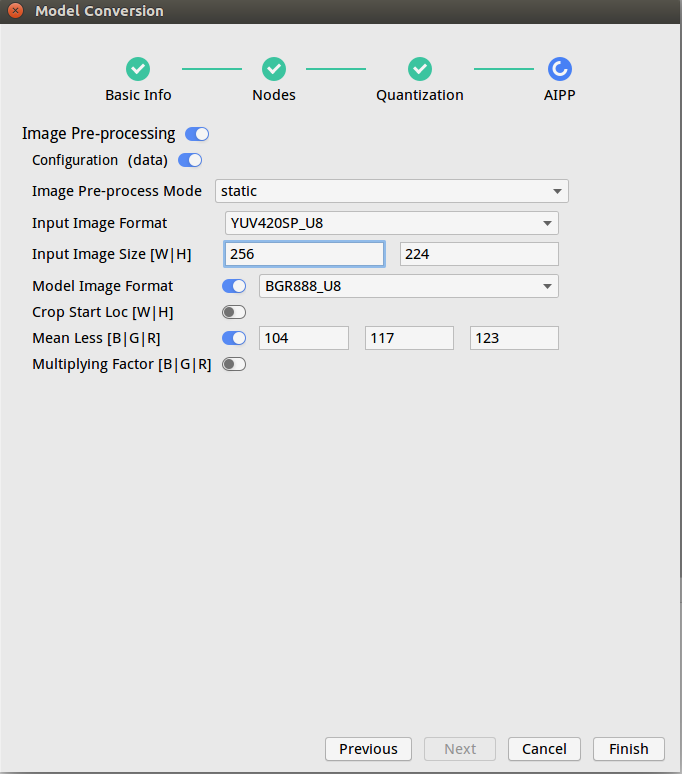
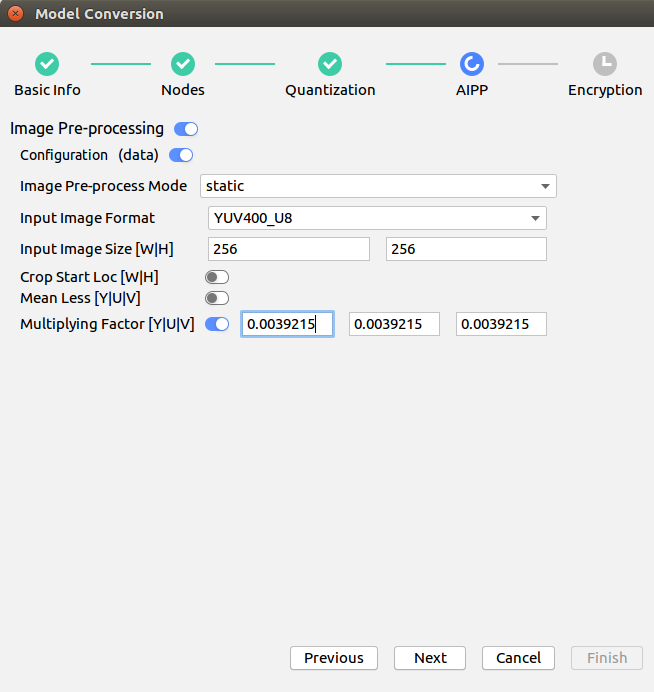
add readme

Changed region(s): [[0.0, 0.0, 1.0, 1.0], [0.6728, 0.4249, 0.8257, 0.4855]]

diff --git a/README.md b/README.md
@@ -1,6 +1,6 @@
-# 分类网络应用（C++）<a name="ZH-CN_TOPIC_0208837235"></a>
+# 图像超分辨率网络应用（C++）<a name="ZH-CN_TOPIC_0208837235"></a>
 
-本Application支持运行在Atlas 200 DK或者AI加速云服务器上，实现了对常见的分类网络的推理功能并输出前n个推理结果。
+本Application支持运行在Atlas 200 DK或者AI加速云服务器上，实现了对SRCNN、FSRCNN和ESPCN三种图像超分辨率网络的推理功能。
 
 ## 前提条件<a name="zh-cn_topic_0203223265_section137245294533"></a>
 
@@ -15,161 +15,13 @@
 
 1.  <a name="zh-cn_topic_0203223265_li953280133816"></a>获取源码包。
 
-    将[https://gitee.com/Atlas200DK/sample-classification/tree/1.3x.0.0/](https://gitee.com/Atlas200DK/sample-classification/tree/1.3x.0.0/)仓中的代码以Mind Studio安装用户下载至Mind Studio所在Ubuntu服务器的任意目录，这两个文件必须存放到同一个目录下。例如代码存放路径为：_$HOME/AscendProjects/sample-classification_。
+    将[https://github.com/GreyZzzzzzXh/sample-superresolution/tree/1.3x.0.0/](https://github.com/GreyZzzzzzXh/sample-superresolution/tree/1.3x.0.0/)仓中的代码以Mind Studio安装用户下载至Mind Studio所在Ubuntu服务器的任意目录。例如代码存放路径为：_$HOME/AscendProjects/sample-superresolution_。
 
 2.  <a name="zh-cn_topic_0203223265_li29641938112018"></a>获取此应用中所需要的原始网络模型。
 
-    参考[表1](#zh-cn_topic_0203223265_table1119094515272)获取此应用中所用到的原始网络模型及其对应的权重文件，并将其存放到Mind Studio所在Ubuntu服务器的任意目录，这两个文件必须存放到同一个目录下。例如：_$HOME/models/classification_。
+    此应用中使用的三个原始网络模型权重分别通过[SRCNN](http://mmlab.ie.cuhk.edu.hk/projects/SRCNN.html)、[FSRCNN](http://mmlab.ie.cuhk.edu.hk/projects/FSRCNN.html)以及[ESPCN](https://github.com/wangxuewen99/Super-Resolution/tree/master/ESPCN)开源代码训练得到。另外，在网络模型文件中，需要对padding参数做一些修改以保证卷积后特征图的尺寸不变。
 
-    **表 1**  通用分类网络应用使用模型
-
-    <a name="zh-cn_topic_0203223265_table1119094515272"></a>
-    <table><thead align="left"><tr id="zh-cn_topic_0203223265_row677354502719"><th class="cellrowborder" valign="top" width="12.85%" id="mcps1.2.4.1.1"><p id="zh-cn_topic_0203223265_p167731845122717"><a name="zh-cn_topic_0203223265_p167731845122717"></a><a name="zh-cn_topic_0203223265_p167731845122717"></a>模型名称</p>
-    </th>
-    <th class="cellrowborder" valign="top" width="12.57%" id="mcps1.2.4.1.2"><p id="zh-cn_topic_0203223265_p277317459276"><a name="zh-cn_topic_0203223265_p277317459276"></a><a name="zh-cn_topic_0203223265_p277317459276"></a>模型说明</p>
-    </th>
-    <th class="cellrowborder" valign="top" width="74.58%" id="mcps1.2.4.1.3"><p id="zh-cn_topic_0203223265_p9773114512270"><a name="zh-cn_topic_0203223265_p9773114512270"></a><a name="zh-cn_topic_0203223265_p9773114512270"></a>模型下载路径</p>
-    </th>
-    </tr>
-    </thead>
-    <tbody><tr id="zh-cn_topic_0203223265_row3122314144215"><td class="cellrowborder" valign="top" width="12.85%" headers="mcps1.2.4.1.1 "><p id="zh-cn_topic_0203223265_p14407251134314"><a name="zh-cn_topic_0203223265_p14407251134314"></a><a name="zh-cn_topic_0203223265_p14407251134314"></a>alexnet</p>
-    </td>
-    <td class="cellrowborder" valign="top" width="12.57%" headers="mcps1.2.4.1.2 "><p id="zh-cn_topic_0203223265_p116141194720"><a name="zh-cn_topic_0203223265_p116141194720"></a><a name="zh-cn_topic_0203223265_p116141194720"></a>图片分类推理模型。</p>
-    <p id="zh-cn_topic_0203223265_p86191184712"><a name="zh-cn_topic_0203223265_p86191184712"></a><a name="zh-cn_topic_0203223265_p86191184712"></a>是基于Caffe的AlexNet模型。</p>
-    </td>
-    <td class="cellrowborder" valign="top" width="74.58%" headers="mcps1.2.4.1.3 "><p id="zh-cn_topic_0203223265_p67311330479"><a name="zh-cn_topic_0203223265_p67311330479"></a><a name="zh-cn_topic_0203223265_p67311330479"></a>请参考<a href="https://gitee.com/HuaweiAscend/models/tree/master/computer_vision/classification/alexnet" target="_blank" rel="noopener noreferrer">https://gitee.com/HuaweiAscend/models/tree/master/computer_vision/classification/alexnet</a>目录中README.md下载原始网络模型文件及其对应的权重文件。</p>
-    </td>
-    </tr>
-    <tr id="zh-cn_topic_0203223265_row2399521134819"><td class="cellrowborder" valign="top" width="12.85%" headers="mcps1.2.4.1.1 "><p id="zh-cn_topic_0203223265_p3400192113488"><a name="zh-cn_topic_0203223265_p3400192113488"></a><a name="zh-cn_topic_0203223265_p3400192113488"></a>caffenet</p>
-    </td>
-    <td class="cellrowborder" valign="top" width="12.57%" headers="mcps1.2.4.1.2 "><p id="zh-cn_topic_0203223265_p5645133234810"><a name="zh-cn_topic_0203223265_p5645133234810"></a><a name="zh-cn_topic_0203223265_p5645133234810"></a>图片分类推理模型。</p>
-    <p id="zh-cn_topic_0203223265_p14645153244816"><a name="zh-cn_topic_0203223265_p14645153244816"></a><a name="zh-cn_topic_0203223265_p14645153244816"></a>是基于Caffe的CaffeNet模型。</p>
-    </td>
-    <td class="cellrowborder" valign="top" width="74.58%" headers="mcps1.2.4.1.3 "><p id="zh-cn_topic_0203223265_p1537844912482"><a name="zh-cn_topic_0203223265_p1537844912482"></a><a name="zh-cn_topic_0203223265_p1537844912482"></a>请参考<a href="https://gitee.com/HuaweiAscend/models/tree/master/computer_vision/classification/caffenet" target="_blank" rel="noopener noreferrer">https://gitee.com/HuaweiAscend/models/tree/master/computer_vision/classification/caffenet</a>目录中README.md下载原始网络模型文件及其对应的权重文件。</p>
-    </td>
-    </tr>
-    <tr id="zh-cn_topic_0203223265_row3773114518271"><td class="cellrowborder" valign="top" width="12.85%" headers="mcps1.2.4.1.1 "><p id="zh-cn_topic_0203223265_p17738455277"><a name="zh-cn_topic_0203223265_p17738455277"></a><a name="zh-cn_topic_0203223265_p17738455277"></a>densenet</p>
-    </td>
-    <td class="cellrowborder" valign="top" width="12.57%" headers="mcps1.2.4.1.2 "><p id="zh-cn_topic_0203223265_p16773124511270"><a name="zh-cn_topic_0203223265_p16773124511270"></a><a name="zh-cn_topic_0203223265_p16773124511270"></a>图片分类推理模型。</p>
-    <p id="zh-cn_topic_0203223265_p2773745162718"><a name="zh-cn_topic_0203223265_p2773745162718"></a><a name="zh-cn_topic_0203223265_p2773745162718"></a>是基于Caffe的DenseNet121模型。</p>
-    </td>
-    <td class="cellrowborder" valign="top" width="74.58%" headers="mcps1.2.4.1.3 "><p id="zh-cn_topic_0203223265_p187731945132715"><a name="zh-cn_topic_0203223265_p187731945132715"></a><a name="zh-cn_topic_0203223265_p187731945132715"></a>请参考<a href="https://gitee.com/HuaweiAscend/models/tree/master/computer_vision/classification/densenet" target="_blank" rel="noopener noreferrer">https://gitee.com/HuaweiAscend/models/tree/master/computer_vision/classification/densenet</a>目录中README.md下载原始网络模型文件及其对应的权重文件。</p>
-    </td>
-    </tr>
-    <tr id="zh-cn_topic_0203223265_row137731845122710"><td class="cellrowborder" valign="top" width="12.85%" headers="mcps1.2.4.1.1 "><p id="zh-cn_topic_0203223265_p477316457275"><a name="zh-cn_topic_0203223265_p477316457275"></a><a name="zh-cn_topic_0203223265_p477316457275"></a>googlenet</p>
-    </td>
-    <td class="cellrowborder" valign="top" width="12.57%" headers="mcps1.2.4.1.2 "><p id="zh-cn_topic_0203223265_p197731456270"><a name="zh-cn_topic_0203223265_p197731456270"></a><a name="zh-cn_topic_0203223265_p197731456270"></a>图片分类推理模型。</p>
-    <p id="zh-cn_topic_0203223265_p1877394515274"><a name="zh-cn_topic_0203223265_p1877394515274"></a><a name="zh-cn_topic_0203223265_p1877394515274"></a>是基于Caffe的GoogLeNet模型。</p>
-    </td>
-    <td class="cellrowborder" valign="top" width="74.58%" headers="mcps1.2.4.1.3 "><p id="zh-cn_topic_0203223265_p197738453275"><a name="zh-cn_topic_0203223265_p197738453275"></a><a name="zh-cn_topic_0203223265_p197738453275"></a>请参考<a href="https://gitee.com/HuaweiAscend/models/tree/master/computer_vision/classification/googlenet" target="_blank" rel="noopener noreferrer">https://gitee.com/HuaweiAscend/models/tree/master/computer_vision/classification/googlenet</a>目录中README.md下载原始网络模型文件及其对应的权重文件。</p>
-    </td>
-    </tr>
-    <tr id="zh-cn_topic_0203223265_row977374512716"><td class="cellrowborder" valign="top" width="12.85%" headers="mcps1.2.4.1.1 "><p id="zh-cn_topic_0203223265_p1977324512272"><a name="zh-cn_topic_0203223265_p1977324512272"></a><a name="zh-cn_topic_0203223265_p1977324512272"></a><span>inception_v2</span></p>
-    </td>
-    <td class="cellrowborder" valign="top" width="12.57%" headers="mcps1.2.4.1.2 "><p id="zh-cn_topic_0203223265_p14773445122712"><a name="zh-cn_topic_0203223265_p14773445122712"></a><a name="zh-cn_topic_0203223265_p14773445122712"></a>图片分类推理模型。</p>
-    <p id="zh-cn_topic_0203223265_p877311459270"><a name="zh-cn_topic_0203223265_p877311459270"></a><a name="zh-cn_topic_0203223265_p877311459270"></a>是基于Caffe的Inception V2模型。</p>
-    </td>
-    <td class="cellrowborder" valign="top" width="74.58%" headers="mcps1.2.4.1.3 "><p id="zh-cn_topic_0203223265_p16773145162719"><a name="zh-cn_topic_0203223265_p16773145162719"></a><a name="zh-cn_topic_0203223265_p16773145162719"></a>请参考<a href="https://gitee.com/HuaweiAscend/models/tree/master/computer_vision/classification/inception_v2" target="_blank" rel="noopener noreferrer">https://gitee.com/HuaweiAscend/models/tree/master/computer_vision/classification/inception_v2</a>目录中README.md下载原始网络模型文件及其对应的权重文件。</p>
-    </td>
-    </tr>
-    <tr id="zh-cn_topic_0203223265_row429165985115"><td class="cellrowborder" valign="top" width="12.85%" headers="mcps1.2.4.1.1 "><p id="zh-cn_topic_0203223265_p1050712711523"><a name="zh-cn_topic_0203223265_p1050712711523"></a><a name="zh-cn_topic_0203223265_p1050712711523"></a><span>inception_v3</span></p>
-    </td>
-    <td class="cellrowborder" valign="top" width="12.57%" headers="mcps1.2.4.1.2 "><p id="zh-cn_topic_0203223265_p18641141115218"><a name="zh-cn_topic_0203223265_p18641141115218"></a><a name="zh-cn_topic_0203223265_p18641141115218"></a>图片分类推理模型。</p>
-    <p id="zh-cn_topic_0203223265_p06411511105213"><a name="zh-cn_topic_0203223265_p06411511105213"></a><a name="zh-cn_topic_0203223265_p06411511105213"></a>是基于Caffe的Inception V3模型。</p>
-    </td>
-    <td class="cellrowborder" valign="top" width="74.58%" headers="mcps1.2.4.1.3 "><p id="zh-cn_topic_0203223265_p1241971612520"><a name="zh-cn_topic_0203223265_p1241971612520"></a><a name="zh-cn_topic_0203223265_p1241971612520"></a>请参考<a href="https://gitee.com/HuaweiAscend/models/tree/master/computer_vision/classification/inception_v3" target="_blank" rel="noopener noreferrer">https://gitee.com/HuaweiAscend/models/tree/master/computer_vision/classification/inception_v3</a>目录中README.md下载原始网络模型文件及其对应的权重文件。</p>
-    </td>
-    </tr>
-    <tr id="zh-cn_topic_0203223265_row6482142185210"><td class="cellrowborder" valign="top" width="12.85%" headers="mcps1.2.4.1.1 "><p id="zh-cn_topic_0203223265_p12508168115214"><a name="zh-cn_topic_0203223265_p12508168115214"></a><a name="zh-cn_topic_0203223265_p12508168115214"></a><span>inception_v4</span></p>
-    </td>
-    <td class="cellrowborder" valign="top" width="12.57%" headers="mcps1.2.4.1.2 "><p id="zh-cn_topic_0203223265_p8785612105217"><a name="zh-cn_topic_0203223265_p8785612105217"></a><a name="zh-cn_topic_0203223265_p8785612105217"></a>图片分类推理模型。</p>
-    <p id="zh-cn_topic_0203223265_p47851512105212"><a name="zh-cn_topic_0203223265_p47851512105212"></a><a name="zh-cn_topic_0203223265_p47851512105212"></a>是基于Caffe的Inception V4模型。</p>
-    </td>
-    <td class="cellrowborder" valign="top" width="74.58%" headers="mcps1.2.4.1.3 "><p id="zh-cn_topic_0203223265_p1028761705212"><a name="zh-cn_topic_0203223265_p1028761705212"></a><a name="zh-cn_topic_0203223265_p1028761705212"></a>请参考<a href="https://gitee.com/HuaweiAscend/models/tree/master/computer_vision/classification/inception_v4" target="_blank" rel="noopener noreferrer">https://gitee.com/HuaweiAscend/models/tree/master/computer_vision/classification/inception_v4</a>目录中README.md下载原始网络模型文件及其对应的权重文件。</p>
-    </td>
-    </tr>
-    <tr id="zh-cn_topic_0203223265_row77732045152717"><td class="cellrowborder" valign="top" width="12.85%" headers="mcps1.2.4.1.1 "><p id="zh-cn_topic_0203223265_p0773114572715"><a name="zh-cn_topic_0203223265_p0773114572715"></a><a name="zh-cn_topic_0203223265_p0773114572715"></a><span>mobilenet_v1</span></p>
-    </td>
-    <td class="cellrowborder" valign="top" width="12.57%" headers="mcps1.2.4.1.2 "><p id="zh-cn_topic_0203223265_p11774645162715"><a name="zh-cn_topic_0203223265_p11774645162715"></a><a name="zh-cn_topic_0203223265_p11774645162715"></a>图片分类推理模型。</p>
-    <p id="zh-cn_topic_0203223265_p47741455273"><a name="zh-cn_topic_0203223265_p47741455273"></a><a name="zh-cn_topic_0203223265_p47741455273"></a>是基于Caffe的MobileNet V1模型。</p>
-    </td>
-    <td class="cellrowborder" valign="top" width="74.58%" headers="mcps1.2.4.1.3 "><p id="zh-cn_topic_0203223265_p5586471511"><a name="zh-cn_topic_0203223265_p5586471511"></a><a name="zh-cn_topic_0203223265_p5586471511"></a>请参考<a href="https://gitee.com/HuaweiAscend/models/tree/master/computer_vision/classification/mobilenet_v1" target="_blank" rel="noopener noreferrer">https://gitee.com/HuaweiAscend/models/tree/master/computer_vision/classification/mobilenet_v1</a>目录中README.md下载原始网络模型文件及其对应的权重文件。</p>
-    </td>
-    </tr>
-    <tr id="zh-cn_topic_0203223265_row12774164515277"><td class="cellrowborder" valign="top" width="12.85%" headers="mcps1.2.4.1.1 "><p id="zh-cn_topic_0203223265_p187741345112718"><a name="zh-cn_topic_0203223265_p187741345112718"></a><a name="zh-cn_topic_0203223265_p187741345112718"></a><span>mobilenet_v2</span></p>
-    </td>
-    <td class="cellrowborder" valign="top" width="12.57%" headers="mcps1.2.4.1.2 "><p id="zh-cn_topic_0203223265_p277414519274"><a name="zh-cn_topic_0203223265_p277414519274"></a><a name="zh-cn_topic_0203223265_p277414519274"></a>图片分类推理模型。</p>
-    <p id="zh-cn_topic_0203223265_p8774174502713"><a name="zh-cn_topic_0203223265_p8774174502713"></a><a name="zh-cn_topic_0203223265_p8774174502713"></a>是基于Caffe的MobileNet V2模型。</p>
-    </td>
-    <td class="cellrowborder" valign="top" width="74.58%" headers="mcps1.2.4.1.3 "><p id="zh-cn_topic_0203223265_p1677414514274"><a name="zh-cn_topic_0203223265_p1677414514274"></a><a name="zh-cn_topic_0203223265_p1677414514274"></a>请参考<a href="https://gitee.com/HuaweiAscend/models/tree/master/computer_vision/classification/mobilenet_v2" target="_blank" rel="noopener noreferrer">https://gitee.com/HuaweiAscend/models/tree/master/computer_vision/classification/mobilenet_v2</a>目录中README.md下载原始网络模型文件及其对应的权重文件。</p>
-    </td>
-    </tr>
-    <tr id="zh-cn_topic_0203223265_row1577434516271"><td class="cellrowborder" valign="top" width="12.85%" headers="mcps1.2.4.1.1 "><p id="zh-cn_topic_0203223265_p3774194512713"><a name="zh-cn_topic_0203223265_p3774194512713"></a><a name="zh-cn_topic_0203223265_p3774194512713"></a><span>resnet18</span></p>
-    </td>
-    <td class="cellrowborder" valign="top" width="12.57%" headers="mcps1.2.4.1.2 "><p id="zh-cn_topic_0203223265_p7774245122713"><a name="zh-cn_topic_0203223265_p7774245122713"></a><a name="zh-cn_topic_0203223265_p7774245122713"></a>图片分类推理模型。</p>
-    <p id="zh-cn_topic_0203223265_p577494517271"><a name="zh-cn_topic_0203223265_p577494517271"></a><a name="zh-cn_topic_0203223265_p577494517271"></a>是基于Caffe的ResNet 18模型。</p>
-    </td>
-    <td class="cellrowborder" valign="top" width="74.58%" headers="mcps1.2.4.1.3 "><p id="zh-cn_topic_0203223265_p16774144510270"><a name="zh-cn_topic_0203223265_p16774144510270"></a><a name="zh-cn_topic_0203223265_p16774144510270"></a>请参考<a href="https://gitee.com/HuaweiAscend/models/tree/master/computer_vision/classification/resnet18" target="_blank" rel="noopener noreferrer">https://gitee.com/HuaweiAscend/models/tree/master/computer_vision/classification/resnet18</a>目录中README.md下载原始网络模型文件及其对应的权重文件。</p>
-    </td>
-    </tr>
-    <tr id="zh-cn_topic_0203223265_row377414452276"><td class="cellrowborder" valign="top" width="12.85%" headers="mcps1.2.4.1.1 "><p id="zh-cn_topic_0203223265_p10774545142714"><a name="zh-cn_topic_0203223265_p10774545142714"></a><a name="zh-cn_topic_0203223265_p10774545142714"></a><span>resnet50</span></p>
-    </td>
-    <td class="cellrowborder" valign="top" width="12.57%" headers="mcps1.2.4.1.2 "><p id="zh-cn_topic_0203223265_p97741245142712"><a name="zh-cn_topic_0203223265_p97741245142712"></a><a name="zh-cn_topic_0203223265_p97741245142712"></a>图片分类推理模型。</p>
-    <p id="zh-cn_topic_0203223265_p177412456271"><a name="zh-cn_topic_0203223265_p177412456271"></a><a name="zh-cn_topic_0203223265_p177412456271"></a>是基于Caffe的ResNet 50模型。</p>
-    </td>
-    <td class="cellrowborder" valign="top" width="74.58%" headers="mcps1.2.4.1.3 "><p id="zh-cn_topic_0203223265_p57747459272"><a name="zh-cn_topic_0203223265_p57747459272"></a><a name="zh-cn_topic_0203223265_p57747459272"></a>请参考<a href="https://gitee.com/HuaweiAscend/models/tree/master/computer_vision/classification/resnet50" target="_blank" rel="noopener noreferrer">https://gitee.com/HuaweiAscend/models/tree/master/computer_vision/classification/resnet50</a>目录中README.md下载原始网络模型文件及其对应的权重文件。</p>
-    </td>
-    </tr>
-    <tr id="zh-cn_topic_0203223265_row377484514279"><td class="cellrowborder" valign="top" width="12.85%" headers="mcps1.2.4.1.1 "><p id="zh-cn_topic_0203223265_p1777454516275"><a name="zh-cn_topic_0203223265_p1777454516275"></a><a name="zh-cn_topic_0203223265_p1777454516275"></a><span>resnet101</span></p>
-    </td>
-    <td class="cellrowborder" valign="top" width="12.57%" headers="mcps1.2.4.1.2 "><p id="zh-cn_topic_0203223265_p15774124516274"><a name="zh-cn_topic_0203223265_p15774124516274"></a><a name="zh-cn_topic_0203223265_p15774124516274"></a>图片分类推理模型。</p>
-    <p id="zh-cn_topic_0203223265_p7774134552720"><a name="zh-cn_topic_0203223265_p7774134552720"></a><a name="zh-cn_topic_0203223265_p7774134552720"></a>是基于Caffe的ResNet 101模型。</p>
-    </td>
-    <td class="cellrowborder" valign="top" width="74.58%" headers="mcps1.2.4.1.3 "><p id="zh-cn_topic_0203223265_p117741545132710"><a name="zh-cn_topic_0203223265_p117741545132710"></a><a name="zh-cn_topic_0203223265_p117741545132710"></a>请参考<a href="https://gitee.com/HuaweiAscend/models/tree/master/computer_vision/classification/resnet101" target="_blank" rel="noopener noreferrer">https://gitee.com/HuaweiAscend/models/tree/master/computer_vision/classification/resnet101</a>目录中README.md下载原始网络模型文件及其对应的权重文件。</p>
-    </td>
-    </tr>
-    <tr id="zh-cn_topic_0203223265_row14774154513279"><td class="cellrowborder" valign="top" width="12.85%" headers="mcps1.2.4.1.1 "><p id="zh-cn_topic_0203223265_p1077413452272"><a name="zh-cn_topic_0203223265_p1077413452272"></a><a name="zh-cn_topic_0203223265_p1077413452272"></a><span>resnet15</span>2</p>
-    </td>
-    <td class="cellrowborder" valign="top" width="12.57%" headers="mcps1.2.4.1.2 "><p id="zh-cn_topic_0203223265_p177434517275"><a name="zh-cn_topic_0203223265_p177434517275"></a><a name="zh-cn_topic_0203223265_p177434517275"></a>图片分类推理模型。</p>
-    <p id="zh-cn_topic_0203223265_p877515459276"><a name="zh-cn_topic_0203223265_p877515459276"></a><a name="zh-cn_topic_0203223265_p877515459276"></a>是基于Caffe的ResNet 152模型。</p>
-    </td>
-    <td class="cellrowborder" valign="top" width="74.58%" headers="mcps1.2.4.1.3 "><p id="zh-cn_topic_0203223265_p777514582712"><a name="zh-cn_topic_0203223265_p777514582712"></a><a name="zh-cn_topic_0203223265_p777514582712"></a>请参考<a href="https://gitee.com/HuaweiAscend/models/tree/master/computer_vision/classification/resnet152" target="_blank" rel="noopener noreferrer">https://gitee.com/HuaweiAscend/models/tree/master/computer_vision/classification/resnet152</a>目录中README.md下载原始网络模型文件及其对应的权重文件。</p>
-    </td>
-    </tr>
-    <tr id="zh-cn_topic_0203223265_row37752450270"><td class="cellrowborder" valign="top" width="12.85%" headers="mcps1.2.4.1.1 "><p id="zh-cn_topic_0203223265_p977544513278"><a name="zh-cn_topic_0203223265_p977544513278"></a><a name="zh-cn_topic_0203223265_p977544513278"></a><span>vgg16</span></p>
-    </td>
-    <td class="cellrowborder" valign="top" width="12.57%" headers="mcps1.2.4.1.2 "><p id="zh-cn_topic_0203223265_p1177514522713"><a name="zh-cn_topic_0203223265_p1177514522713"></a><a name="zh-cn_topic_0203223265_p1177514522713"></a>图片分类推理模型。</p>
-    <p id="zh-cn_topic_0203223265_p10775194582713"><a name="zh-cn_topic_0203223265_p10775194582713"></a><a name="zh-cn_topic_0203223265_p10775194582713"></a>是基于Caffe的VGG16模型。</p>
-    </td>
-    <td class="cellrowborder" valign="top" width="74.58%" headers="mcps1.2.4.1.3 "><p id="zh-cn_topic_0203223265_p18775124582720"><a name="zh-cn_topic_0203223265_p18775124582720"></a><a name="zh-cn_topic_0203223265_p18775124582720"></a>请参考<a href="https://gitee.com/HuaweiAscend/models/tree/master/computer_vision/classification/vgg16" target="_blank" rel="noopener noreferrer">https://gitee.com/HuaweiAscend/models/tree/master/computer_vision/classification/vgg16</a>目录中README.md下载原始网络模型文件及其对应的权重文件。</p>
-    </td>
-    </tr>
-    <tr id="zh-cn_topic_0203223265_row2775194518272"><td class="cellrowborder" valign="top" width="12.85%" headers="mcps1.2.4.1.1 "><p id="zh-cn_topic_0203223265_p5775154516272"><a name="zh-cn_topic_0203223265_p5775154516272"></a><a name="zh-cn_topic_0203223265_p5775154516272"></a><span>vgg19</span></p>
-    </td>
-    <td class="cellrowborder" valign="top" width="12.57%" headers="mcps1.2.4.1.2 "><p id="zh-cn_topic_0203223265_p0775204532711"><a name="zh-cn_topic_0203223265_p0775204532711"></a><a name="zh-cn_topic_0203223265_p0775204532711"></a>图片分类推理模型。</p>
-    <p id="zh-cn_topic_0203223265_p1477554519275"><a name="zh-cn_topic_0203223265_p1477554519275"></a><a name="zh-cn_topic_0203223265_p1477554519275"></a>是基于Caffe的VGG19模型。</p>
-    </td>
-    <td class="cellrowborder" valign="top" width="74.58%" headers="mcps1.2.4.1.3 "><p id="zh-cn_topic_0203223265_p777554542713"><a name="zh-cn_topic_0203223265_p777554542713"></a><a name="zh-cn_topic_0203223265_p777554542713"></a>请参考<a href="https://gitee.com/HuaweiAscend/models/tree/master/computer_vision/classification/vgg19" target="_blank" rel="noopener noreferrer">https://gitee.com/HuaweiAscend/models/tree/master/computer_vision/classification/vgg19</a>目录中README.md下载原始网络模型文件及其对应的权重文件。</p>
-    </td>
-    </tr>
-    <tr id="zh-cn_topic_0203223265_row17513194404914"><td class="cellrowborder" valign="top" width="12.85%" headers="mcps1.2.4.1.1 "><p id="zh-cn_topic_0203223265_p7513164419495"><a name="zh-cn_topic_0203223265_p7513164419495"></a><a name="zh-cn_topic_0203223265_p7513164419495"></a>squeezenet</p>
-    </td>
-    <td class="cellrowborder" valign="top" width="12.57%" headers="mcps1.2.4.1.2 "><p id="zh-cn_topic_0203223265_p1315111145015"><a name="zh-cn_topic_0203223265_p1315111145015"></a><a name="zh-cn_topic_0203223265_p1315111145015"></a>图片分类推理模型。</p>
-    <p id="zh-cn_topic_0203223265_p1515131114501"><a name="zh-cn_topic_0203223265_p1515131114501"></a><a name="zh-cn_topic_0203223265_p1515131114501"></a>是基于Caffe的SqueezeNet模型。</p>
-    </td>
-    <td class="cellrowborder" valign="top" width="74.58%" headers="mcps1.2.4.1.3 "><p id="zh-cn_topic_0203223265_p16265437125015"><a name="zh-cn_topic_0203223265_p16265437125015"></a><a name="zh-cn_topic_0203223265_p16265437125015"></a>请参考<a href="https://gitee.com/HuaweiAscend/models/tree/master/computer_vision/classification/squeezenet" target="_blank" rel="noopener noreferrer">https://gitee.com/HuaweiAscend/models/tree/master/computer_vision/classification/squeezenet</a>目录中README.md下载原始网络模型文件及其对应的权重文件。</p>
-    </td>
-    </tr>
-    <tr id="zh-cn_topic_0203223265_row17757454270"><td class="cellrowborder" valign="top" width="12.85%" headers="mcps1.2.4.1.1 "><p id="zh-cn_topic_0203223265_p17759452279"><a name="zh-cn_topic_0203223265_p17759452279"></a><a name="zh-cn_topic_0203223265_p17759452279"></a><span>dpn98</span></p>
-    </td>
-    <td class="cellrowborder" valign="top" width="12.57%" headers="mcps1.2.4.1.2 "><p id="zh-cn_topic_0203223265_p4775545162716"><a name="zh-cn_topic_0203223265_p4775545162716"></a><a name="zh-cn_topic_0203223265_p4775545162716"></a>图片分类推理模型。</p>
-    <p id="zh-cn_topic_0203223265_p1577504516278"><a name="zh-cn_topic_0203223265_p1577504516278"></a><a name="zh-cn_topic_0203223265_p1577504516278"></a>是基于Caffe的<span>dpn98</span>模型。</p>
-    </td>
-    <td class="cellrowborder" valign="top" width="74.58%" headers="mcps1.2.4.1.3 "><p id="zh-cn_topic_0203223265_p19776154592711"><a name="zh-cn_topic_0203223265_p19776154592711"></a><a name="zh-cn_topic_0203223265_p19776154592711"></a>请参考<a href="https://gitee.com/HuaweiAscend/models/tree/master/computer_vision/classification/dpn98" target="_blank" rel="noopener noreferrer">https://gitee.com/HuaweiAscend/models/tree/master/computer_vision/classification/dpn98</a>目录中README.md下载原始网络模型文件及其对应的权重文件。</p>
-    </td>
-    </tr>
-    </tbody>
-    </table>
+    修改后可适用于推理的网络模型文件及训练后得到的权重文件，已存放至 _sample-superresolution/caffemodel_。
 
 3.  以Mind Studio安装用户登录Mind Studio所在Ubuntu服务器，确定当前使用的DDK版本号并设置环境变量DDK\_HOME，tools\_version，NPU\_DEVICE\_LIB和LD\_LIBRARY\_PATH。
     1.  <a name="zh-cn_topic_0203223265_zh-cn_topic_0203223294_li61417158198"></a>查询当前使用的DDK版本号。
@@ -228,28 +80,30 @@
         ![](figures/zh-cn_image_0205108796.png)
 
     2.  在弹出的**Convert Model**操作界面中，进行模型转换配置。
-        -   Model File选择[步骤2](#zh-cn_topic_0203223265_li29641938112018)中下载的模型文件，此时会自动匹配到权重文件并填写在Weight File中。
-        -   Model Name填写为[表1](#zh-cn_topic_0203223265_table1119094515272)中对应的**模型名称**。
+        -   Model File选择 _sample-superresolution/caffemodel_ 中提供的模型文件（SRCNN、FSRCNN或ESPCN），此时会自动匹配到权重文件并填写在Weight File中。
+        -   Model Name填写为对应的**模型名称**。
 
-            ![](figures/zh-cn_image_0208264607.png)
+            ![](figures/BasicInfo配置示例.png)
 
-        -   googlenet、inception\_v2、resent18模型转换时中，由于通用分类网络应用一次处理一张图片，所以转换时需要将Nodes配置中的**N**修改为1，AIPP配置中的**Input Image Size\[W\]\[H\]**需要分别修改为256、224，此处需要128\*16对齐，**Model Image Format**  选择BGR888\_U8。
+        -   根据低分辨率图像的高度和宽度，设置对应的 Input Node。如果选择的是SRCNN网络，此处的宽高需要设置为低分辨率图像的三倍。另外，注意其中的**N**和**C**都需要设置为1。
 
             **图 2**  Nodes配置示例<a name="zh-cn_topic_0203223265_fig95695336322"></a>  
             ![](figures/Nodes配置示例.png "Nodes配置示例")
+
+        -   AIPP配置中，选择**Input Image Format**为YUV400_U8，**Input Image Size**与**Input Node**中的宽高相同，**Multiplying Factor**设置为 0.0039215。
 
             **图 3**  AIPP配置示例<a name="zh-cn_topic_0203223265_fig14632122193310"></a>  
             ![](figures/AIPP配置示例.png "AIPP配置示例")
 
     3.  单击OK开始转换模型。
 
-        模型转换成功后，后缀为.om的离线模型存放地址为_$HOME/modelzoo/XXX__/device_。
+        模型转换成功后，后缀为.om的离线模型存放地址为 _$HOME/modelzoo/XXX/device_ 。
 
     >![](public_sys-resources/icon-note.gif) **说明：**   
     >-   Mindstudio模型转换中每一步的具体意义和参数说明可以参考[https://ascend.huawei.com/doc/mindstudio/2.1.0\(beta\)/zh/zh-cn\_topic\_0188462651.html](https://ascend.huawei.com/doc/mindstudio/2.1.0(beta)/zh/zh-cn_topic_0188462651.html)  
-    >-   XXX表示当前转换的模型名称，如googlenet.om存放地址为$HOME/modelzoo/googlenet/device。  
+    >-   XXX表示当前转换的模型名称，如FSRCNN.om存放地址为$HOME/modelzoo/FSRCNN/device。  
 
-5.  <a name="zh-cn_topic_0203223265_li470213205618"></a>将转换好的模型文件（.om文件）上传到[步骤1](#zh-cn_topic_0203223265_li953280133816)中源码所在路径下的“**sample-classification/script**”目录下。
+5.  <a name="zh-cn_topic_0203223265_li470213205618"></a>将转换好的模型文件（.om文件）上传到[步骤1](#zh-cn_topic_0203223265_li953280133816)中源码所在路径下的“**sample-superresolution/script**”目录下。
 
 ## 编译<a name="zh-cn_topic_0203223265_section18931344873"></a>
 
@@ -259,10 +113,10 @@
 
     **./MindStudio.sh**
 
-    启动成功后，打开**sample-classification**工程，如[图 打开classification工程](#zh-cn_topic_0203223265_fig11106241192810)所示。
+    启动成功后，打开**sample-superresolution**工程，如[图 打开superresolution工程](#zh-cn_topic_0203223265_fig11106241192810)所示。
 
-    **图 4**  打开classification工程<a name="zh-cn_topic_0203223265_fig11106241192810"></a>  
-    ![](figures/打开classification工程.png "打开classification工程")
+    **图 4**  打开superresolution工程<a name="zh-cn_topic_0203223265_fig11106241192810"></a>  
+    ![](figures/打开superresolution工程.png "打开superresolution工程")
 
 2.  在**src/param\_configure.conf**文件中配置相关工程信息。
 
@@ -285,13 +139,13 @@
 
     ```
     remote_host=192.168.1.2
-    model_name=googlenet.om
+    model_name=FSRCNN_256_256.om
     ```
 
     >![](public_sys-resources/icon-note.gif) **说明：**   
     >-   参数必须全部填写，否则无法通过build。  
     >-   注意参数填写时不需要使用“”符号。  
-    >-   配置文件中只能填入单个模型名称，填入的模型必须为[步骤5](#zh-cn_topic_0203223265_li470213205618)中存储的模型之一。本示例是以googlenet举例，用户可以使用本样例列举的其它模型按照文档步骤进行替换运行。  
+    >-   配置文件中只能填入单个模型名称，填入的模型必须为[步骤5](#zh-cn_topic_0203223265_li470213205618)中存储的模型之一。本示例是以FSRCNN举例，用户可以使用本样例列举的其它模型按照文档步骤进行替换运行。  
 
 3.  开始编译，打开Mind Studio工具，在工具栏中点击**Build \> Build \> Build-Configuration**。如[图 编译操作及生成文件](#zh-cn_topic_0203223265_fig1741464713019)所示，会在目录下生成build和run文件夹。
 
@@ -313,7 +167,7 @@
 
 ## 运行<a name="zh-cn_topic_0203223265_section372782554919"></a>
 
-1.  在Mind Studio工具的工具栏中找到Run按钮，单击  **Run \> Run 'sample-classification'**，如[图 程序已执行示意图](#zh-cn_topic_0203223265_fig93931954162719)所示，可执行程序已经在开发者板执行。
+1.  在Mind Studio工具的工具栏中找到Run按钮，单击  **Run \> Run 'sample-superresolution'**，如[图 程序已执行示意图](#zh-cn_topic_0203223265_fig93931954162719)所示，可执行程序已经在开发者板执行。
 
     **图 7**  程序已执行示意图<a name="zh-cn_topic_0203223265_fig93931954162719"></a>  
     ![](figures/程序已执行示意图.png "程序已执行示意图")
@@ -326,23 +180,28 @@
 
     对于Atlas 200 DK，host\_ip默认为192.168.1.2（USB连接）或者192.168.0.2（NIC连接）。
 
-3.  进入通用分类网络应用的可执行文件所在路径。
+3.  进入图像超分辨率网络应用的可执行文件所在路径。
 
-    **cd \~/HIAI\_PROJECTS/workspace\_mind\_studio/classification/out**
+    **cd \~/HIAI\_PROJECTS/workspace\_mind\_studio/sample-superresolution/out**
 
 4.  执行应用程序。
 
-    执行**run\_classification.py**脚本会将推理结果在执行终端直接打印显示。
+    执行**run\_superresolution.py**脚本会生成超分辨率图片，并保存至当前目录。
 
     命令示例如下所示：
 
-    **python3 run\_classification.py -w  _224_  -h  _224_  -i** **_./example.jpg_  -n  _10_**
+    **python3 run\_superresolution.py -t _0_ -w _768_ -h _768_ -i _\~/images/Set5/butterfly\_GT.bmp_ -c _1_**
 
-    -   -w/model\_width：模型的输入图片宽度，为16\~4096之间的整数，请参考[表1](#zh-cn_topic_0203223265_table1119094515272)在Gitee上查看所使用模型文件的Readme，获取模型要求的输入数据的宽和高。
-    -   -h/model\_height：模型的输入图片高度，为16\~4096之间的整数，请参考[表1](#zh-cn_topic_0203223265_table1119094515272)在Gitee上查看所使用模型文件的Readme，获取模型要求的输入数据的宽和高。
+    **python3 run\_superresolution.py -t _1_ -w _256_ -h _256_ -i _\~/images/Set5/butterfly\_GT.bmp_ -c _1_**
+
+    **python3 run\_superresolution.py -t _2_ -w _256_ -h _256_ -i _\~/images/Set5/butterfly\_GT.bmp_ -c _1_**
+
+    -   -t/model\_type：超分辨率网络类型，为0~2之间的整数，0、1、2分别代表SRCNN、FSRCNN与ESPCN。
+    -   -w/model\_width：模型的输入图片宽度，为16\~4096之间的整数。
+    -   -h/model\_height：模型的输入图片高度，为16\~4096之间的整数。
     -   -i/input\_path：输入图片的路径，可以是目录，表示当前目录下的所有图片都作为输入（可以指定多个输入）。
-    -   -n/top\_n：输出前n个推理结果。
+    -   -c/is\_colored：是否生成彩色图像，为整数0或者1，0表示生成灰度图像，1表示生成彩色图像。
 
-    其他详细参数请执行**python3 run\_classification.py --help**命令参见帮助信息。
+    其他详细参数请执行**python3 run\_superresolution.py --help**命令参见帮助信息。
 
-
+5.  将当前目录下生成的超分辨率图像拷贝回Mind Studio所在Ubuntu服务器进行查看。
